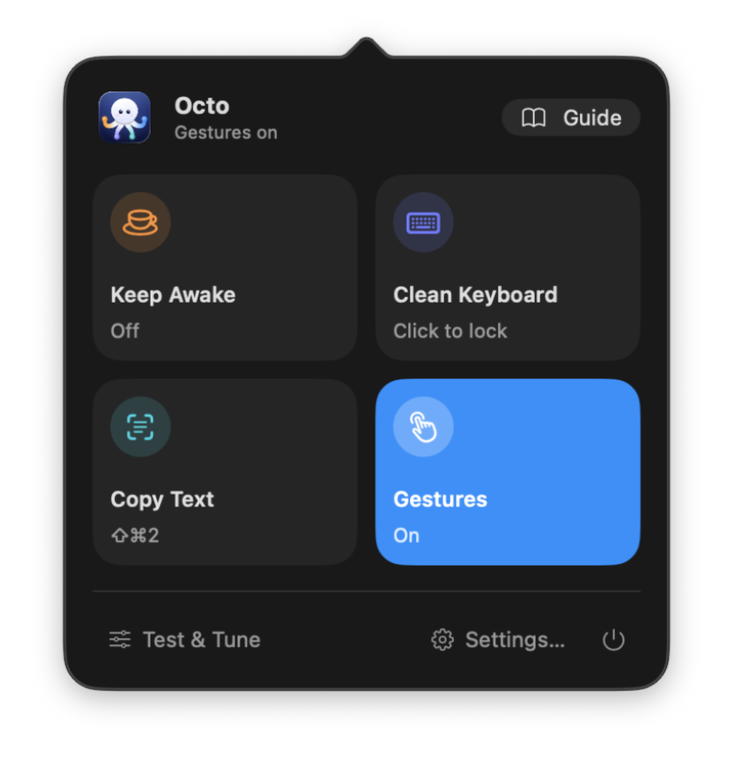
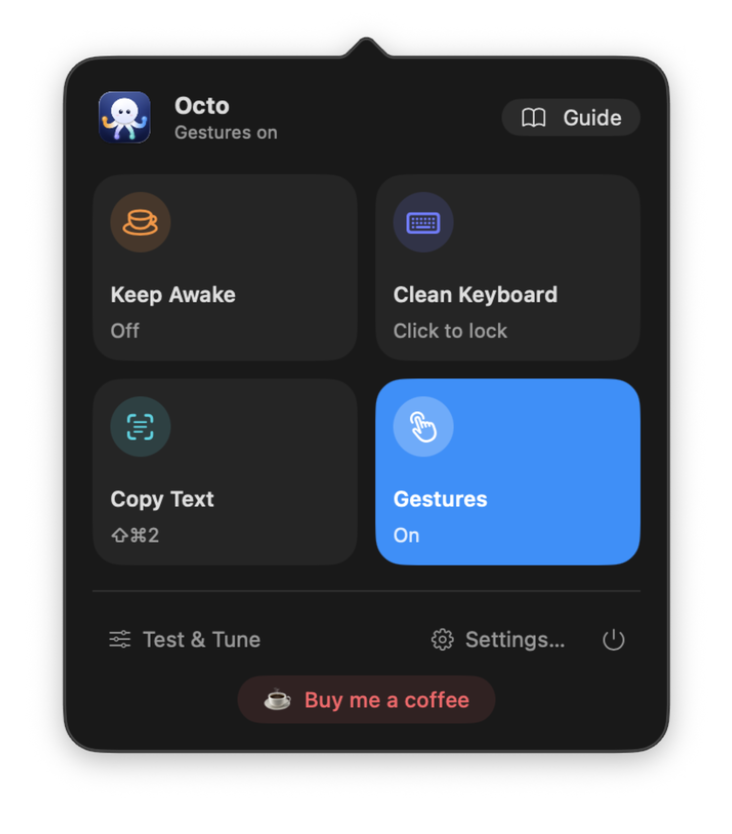
Octo 1.0.1: Buy me a coffee in the panel
A small "☕ Buy me a coffee" button under the menu bar panel opens the
Ko-fi page, for people who want to support Octo. The README picture of
the panel shows it.

diff --git a/Sources/Octo/Views/MenuPanel.swift b/Sources/Octo/Views/MenuPanel.swift
@@ -65,17 +65,22 @@ struct MenuPanel: View {
 
             Divider()
 
-            HStack(spacing: 4) {
-                FooterButton(title: "Test & Tune", symbol: "slider.horizontal.3") {
-                    if !model.editingGesture { model.gestureTab = .test }
-                    openSettings(.gestures)
+            VStack(spacing: 8) {
+                HStack(spacing: 4) {
+                    FooterButton(title: "Test & Tune", symbol: "slider.horizontal.3") {
+                        if !model.editingGesture { model.gestureTab = .test }
+                        openSettings(.gestures)
+                    }
+                    .help("Try gestures and adjust how they feel")
+                    Spacer(minLength: 8)
+                    FooterButton(title: "Settings…", symbol: "gearshape") { openSettings(.gestures) }
+                        .keyboardShortcut(",", modifiers: .command)
+                    FooterButton(title: nil, symbol: "power", action: quit)
+                        .help("Quit Octo")
                 }
-                .help("Try gestures and adjust how they feel")
-                Spacer(minLength: 8)
-                FooterButton(title: "Settings…", symbol: "gearshape") { openSettings(.gestures) }
-                    .keyboardShortcut(",", modifiers: .command)
-                FooterButton(title: nil, symbol: "power", action: quit)
-                    .help("Quit Octo")
+                if AppInfo.supportURL != nil {
+                    CoffeeButton()
+                }
             }
         }
         .padding(16)
@@ -123,6 +128,29 @@ struct MenuPanel: View {
         }
         .padding(10)
         .background(RoundedRectangle(cornerRadius: 10, style: .continuous).fill(Color.orange.opacity(0.12)))
+    }
+}
+
+/// "☕ Buy me a coffee": opens the Ko-fi page (the panel closes by itself as the browser opens).
+private struct CoffeeButton: View {
+    @State private var hovering = false
+
+    var body: some View {
+        Button {
+            AppInfo.open(AppInfo.supportURL)
+        } label: {
+            Text("☕  Buy me a coffee")
+                .font(.callout.weight(.medium))
+                .foregroundStyle(SupportCard.tint)
+                .padding(.horizontal, 14)
+                .padding(.vertical, 6)
+                .background(Capsule().fill(SupportCard.tint.opacity(hovering ? 0.20 : 0.11)))
+                .contentShape(Capsule())
+        }
+        .buttonStyle(.plain)
+        .onHover { hovering = $0 }
+        .help("Octo is free. If it saves you time, you can buy me a coffee on Ko-fi.")
+        .frame(maxWidth: .infinity)
     }
 }
 

diff --git a/Sources/Octo/Snapshotter.swift b/Sources/Octo/Snapshotter.swift
@@ -42,7 +42,7 @@ enum Snapshotter {
         model.conflicts = []
         for (suffix, appearance) in appearances {
             render(MenuPanel(openSettings: { _ in }, cleanKeyboard: {}, copyText: {}, quit: {}).environment(model),
-                   size: CGSize(width: 340, height: 360), appearance: appearance,
+                   size: CGSize(width: 340, height: 410), appearance: appearance,
                    to: folder.appendingPathComponent("menu-panel-\(suffix).png"))
         }
         render(KeyboardLockView(unlocksAt: Date().addingTimeInterval(299)) {}, size: CGSize(width: 1100, height: 720),
